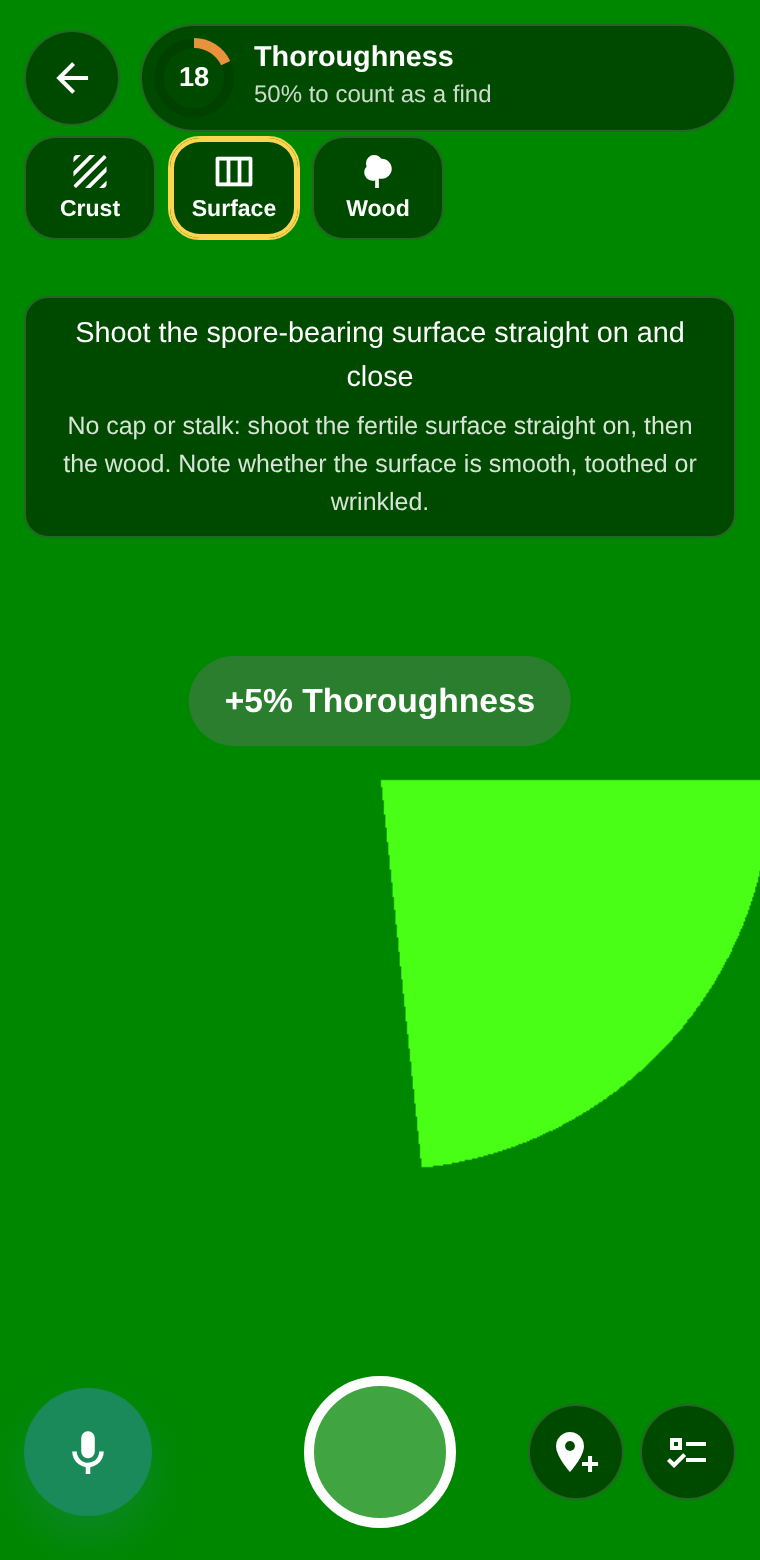
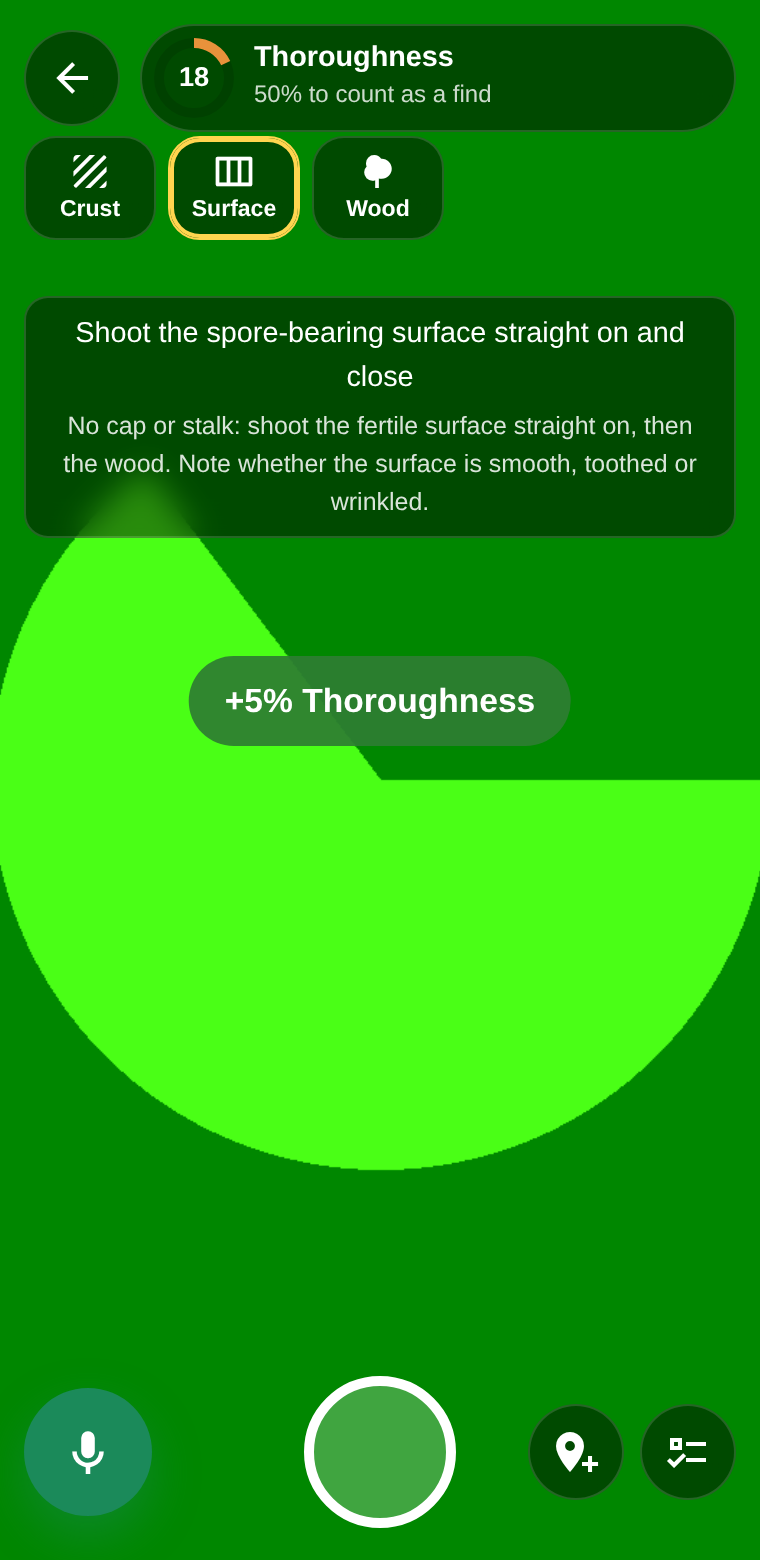
Stop the form picker popping up on guided capture
Opening a find with no form now shows the standard shots straight away, with
a hint to tap the Form chip. The picker only opens when asked.

Claude-Session: https://claude.ai/code/session_01MqVZK3Wj4wTewb97ZoYU2W

Changed region(s): [[0.0, 0.3077, 0.575, 0.7692]]

diff --git a/pages/guide/[id].vue b/pages/guide/[id].vue
@@ -76,6 +76,7 @@
     <div class="hint glass">
       <div>{{ hint }}</div>
       <div v-if="form" class="hint-tip">{{ form.tip }}</div>
+      <div v-else class="hint-tip">Not sure yet? Tap the Form chip to say what it looks like. Until then, the standard shots.</div>
     </div>
 
     <!-- Fields voice filled, in camera mode (AR shows them on the find). -->
@@ -443,13 +444,6 @@ function leave() {
 
 // ---------- form ----------
 const formOpen = ref(false)
-let formAsked = false
-// The first time a find with no form is open on the camera, ask what kind of fungus it is.
-watch([find, ar], ([f, inAr]) => {
-  if (formAsked || !f || inAr || form.value) return
-  formAsked = true
-  formOpen.value = true
-})
 async function chooseForm(id: string) {
   formOpen.value = false
   if (!find.value) return

diff --git a/HAND-TESTING.md b/HAND-TESTING.md
@@ -219,7 +219,7 @@ Speech hasn't been tried on a real phone yet, so do the basic voice items first.
 
 ## 21. Guided capture by mushroom form
 
-- [ ] Open **Guided capture** on a new find with no form. The sheet "What kind of fungus is it?" opens by itself, with an icon, a name and examples for each form
+- [ ] Open **Guided capture** on a new find with no form. Nothing pops up: the camera works straight away with the standard shots, and the hint says "Not sure yet? Tap the Form chip". Tap **Form**: the sheet "What kind of fungus is it?" lists each form with an icon and examples
 - [ ] Pick **Gilled mushroom**: the top row shows a Gilled chip, then Cap top, Gills, Stipe and base, and Habitat, each with an icon. The hint card shows the form's tip
 - [ ] Tap the Gilled chip: the sheet opens again. Pick **Crust or resupinate**: only Surface and Wood remain, and the stem and cap details leave the "What's left" list
 - [ ] Pick **Bracket or shelf**: Top, Pores or gills and Wood, with no stem shot. Take the three shots. The find reaches 100% without a stem photo
@@ -227,5 +227,5 @@ Speech hasn't been tried on a real phone yet, so do the basic voice items first.
 - [ ] Pick **Not sure or other**: the four generic shots come back (Cap top, Gills or pores, Stem and base, Habitat)
 - [ ] Take a photo for each shot: the chip gets a check, the next missing shot is selected, and "+N% Thoroughness" pops up
 - [ ] Leave the guide and open the find in Foray mode or MycoDex: its Form line shows the form name. Open it on a second device signed in to the same account (Settings → Sync now): the form is there too
-- [ ] Older finds (made before this change) with no form: the form sheet opens once on first use, and their completeness drops by one item until a form is picked
+- [ ] Older finds (made before this change) with no form: they open on the standard shots with no pop-up, and their completeness drops by one item until a form is picked
 - [ ] On Android Chrome in AR: the rings show only the shots for the find's form (no stem ring for a bracket)
